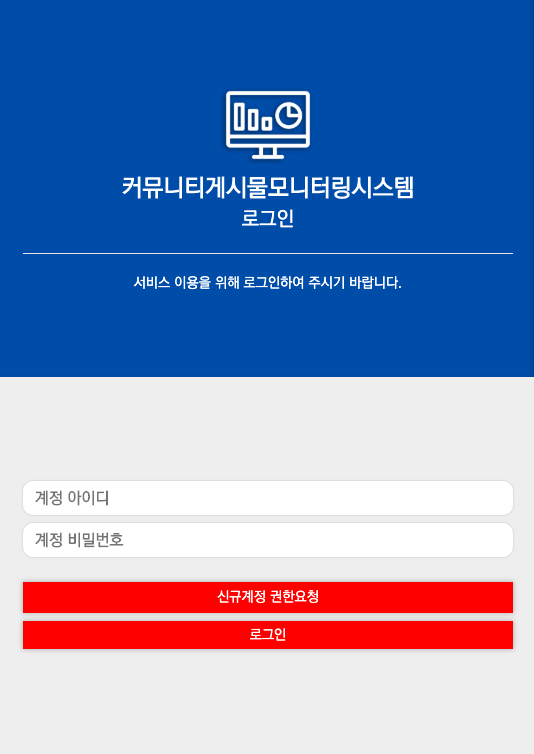
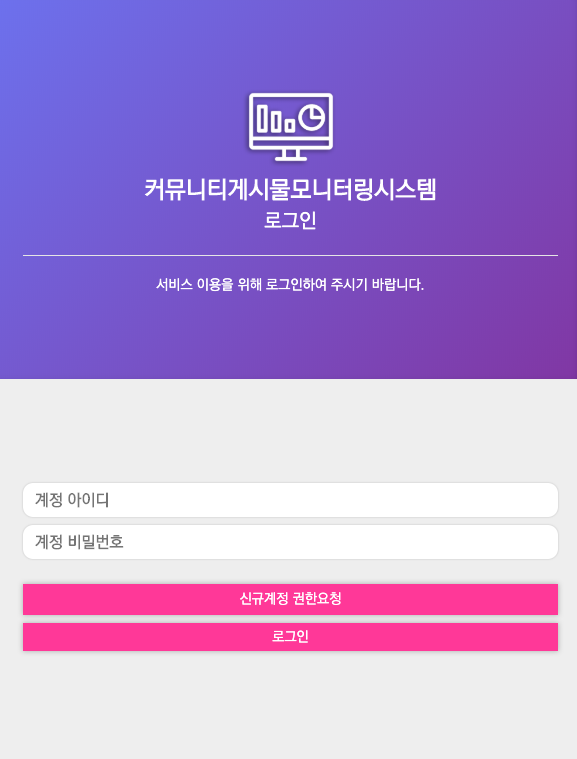
fix: README.md

diff --git a/assets/css/layout/auth.scss b/assets/css/layout/auth.scss
@@ -12,7 +12,7 @@
         font-size: 20px;
     }
     > .flex-left {
-        background: #0054A6;
+        background-image: linear-gradient(135deg, #667eea 0%, #764ba2 100%);
         box-shadow: inset -7px 0 9px -7px rgba(0,0,0,.65);
     }
     > .flex-right {
@@ -56,7 +56,7 @@ input[type="email"], input[type="password"] {
     font-weight: 100;
     font-size: 14px;
     text-align: center;
-    background: #ed1b2f;
+    background: #ee609c;
     color: #fff;
     margin: 0 0 8px 0;
     box-shadow: 0 0 5px rgba(0,0,0,.24);
@@ -65,7 +65,7 @@ input[type="email"], input[type="password"] {
         cursor: pointer;
         text-decoration: none;
         color: #fff;
-        background: #a4681d;
+        background: #d299c2;
     }
 }
 

diff --git a/README.md b/README.md
@@ -1,7 +1,5 @@
 # 커뮤니티게시물모니터링포털
 
----
-
 Community Monitoring Works Portal (V2)
 
 > 국내 유명 인터넷 커뮤니티 게시물 통합 수집 및 특이 게시물 보관, 보고서 변환, 데이터 분석 시각화 기능 제공
@@ -13,29 +11,56 @@ Community Monitoring Works Portal (V2)
 > - MongoDB - Data Storage
 >   - localhost:27017/cmwp
 
-![MAIN_PC](./screenshots/pc_main.png)
+![MAIN_PC](./screenshots/main.png)
 
 <p align="center">[Fig 1] Login Page (PC)</p>
-
-
 
 ![Scrape_PC](./screenshots/scrape_pc.png)
 
 <p align="center">[Fig 2] 커뮤니티 게시물 스크랩</p>
 
+![Scrape_PC_and_save_post](./screenshots/savePost.png)
+
+<p align="center">[Fig 2-1] 커뮤니티 게시물 스크랩 저장</p>
+
+![Scrape_PC_and_save_post](./screenshots/searchSNS.png)
+
+<p align="center">[Fig 2-2] SNS 게시물 스크랩</p>
+
+![Scrape_PC_and_save_post](./screenshots/list.png)
+
+<p align="center">[Fig 2-3] 스크랩 게시물 리스트</p>
+
+![PDF Preview](./screenshots/report.png)
+
+<p align="center">[Fig 2-4] PDF 보고서</p>
+
+![Screenshot Preview](./screenshots/screenshot_preview.png)
+
+<p align="center">[Fig 2-5] 스크린샷 미리보기</p>
+
+> **위 스크린샷 안의 모든 내용은 단순 서비스 소개를 위한 테스트 데이터로, 제작자의 정치적 성향 등과는 일체 무관함을 알려드립니다.**
+
 각종 유명 인터넷 커뮤니티 사이트에서의 게시물을 크롤링하여 한 곳에 모아 키워드별로 조회할 수 있고, 특이사항이 있는 게시물을 통합보관하여 분석할 수 있도록 PDF 문서 변환 및 데이터 분석 시각화 기능을 제공합니다.
+
+![Visualization](./screenshots/visualization.png)
+<p align="center">[Fig 3] 수집된 데이터 시각화</p>
 
 사이버 특기의경 복무시 수사업무보조를 위해 작성한 프로그램의 수정된 버전입니다. 공개되지 못하는 부분에 대해 삭제하여 새롭게 만든 버전입니다.
 
-
-
 > 모바일 화면에서도 편하게 사용할 수 있도록 반응형 웹을 지원하고 있습니다.
-
-
 
 ![Main_mobile](./screenshots/mobile_main.png)
 
-<p align="center">[Fig 3] 모바일에서의 로그인 화면</p>
+<p align="center">[Fig 4] 모바일에서의 로그인 화면</p>
+
+![승인대기](./screenshots/waitForUsable.png)
+
+<p align="center">[Fig 5] 승인 대기 화면</p>
+
+![사용자관리](./screenshots/userManagement.png)
+
+<p align="center">[Fig 6] 사용자 관리 화면</p>
 
 
 
